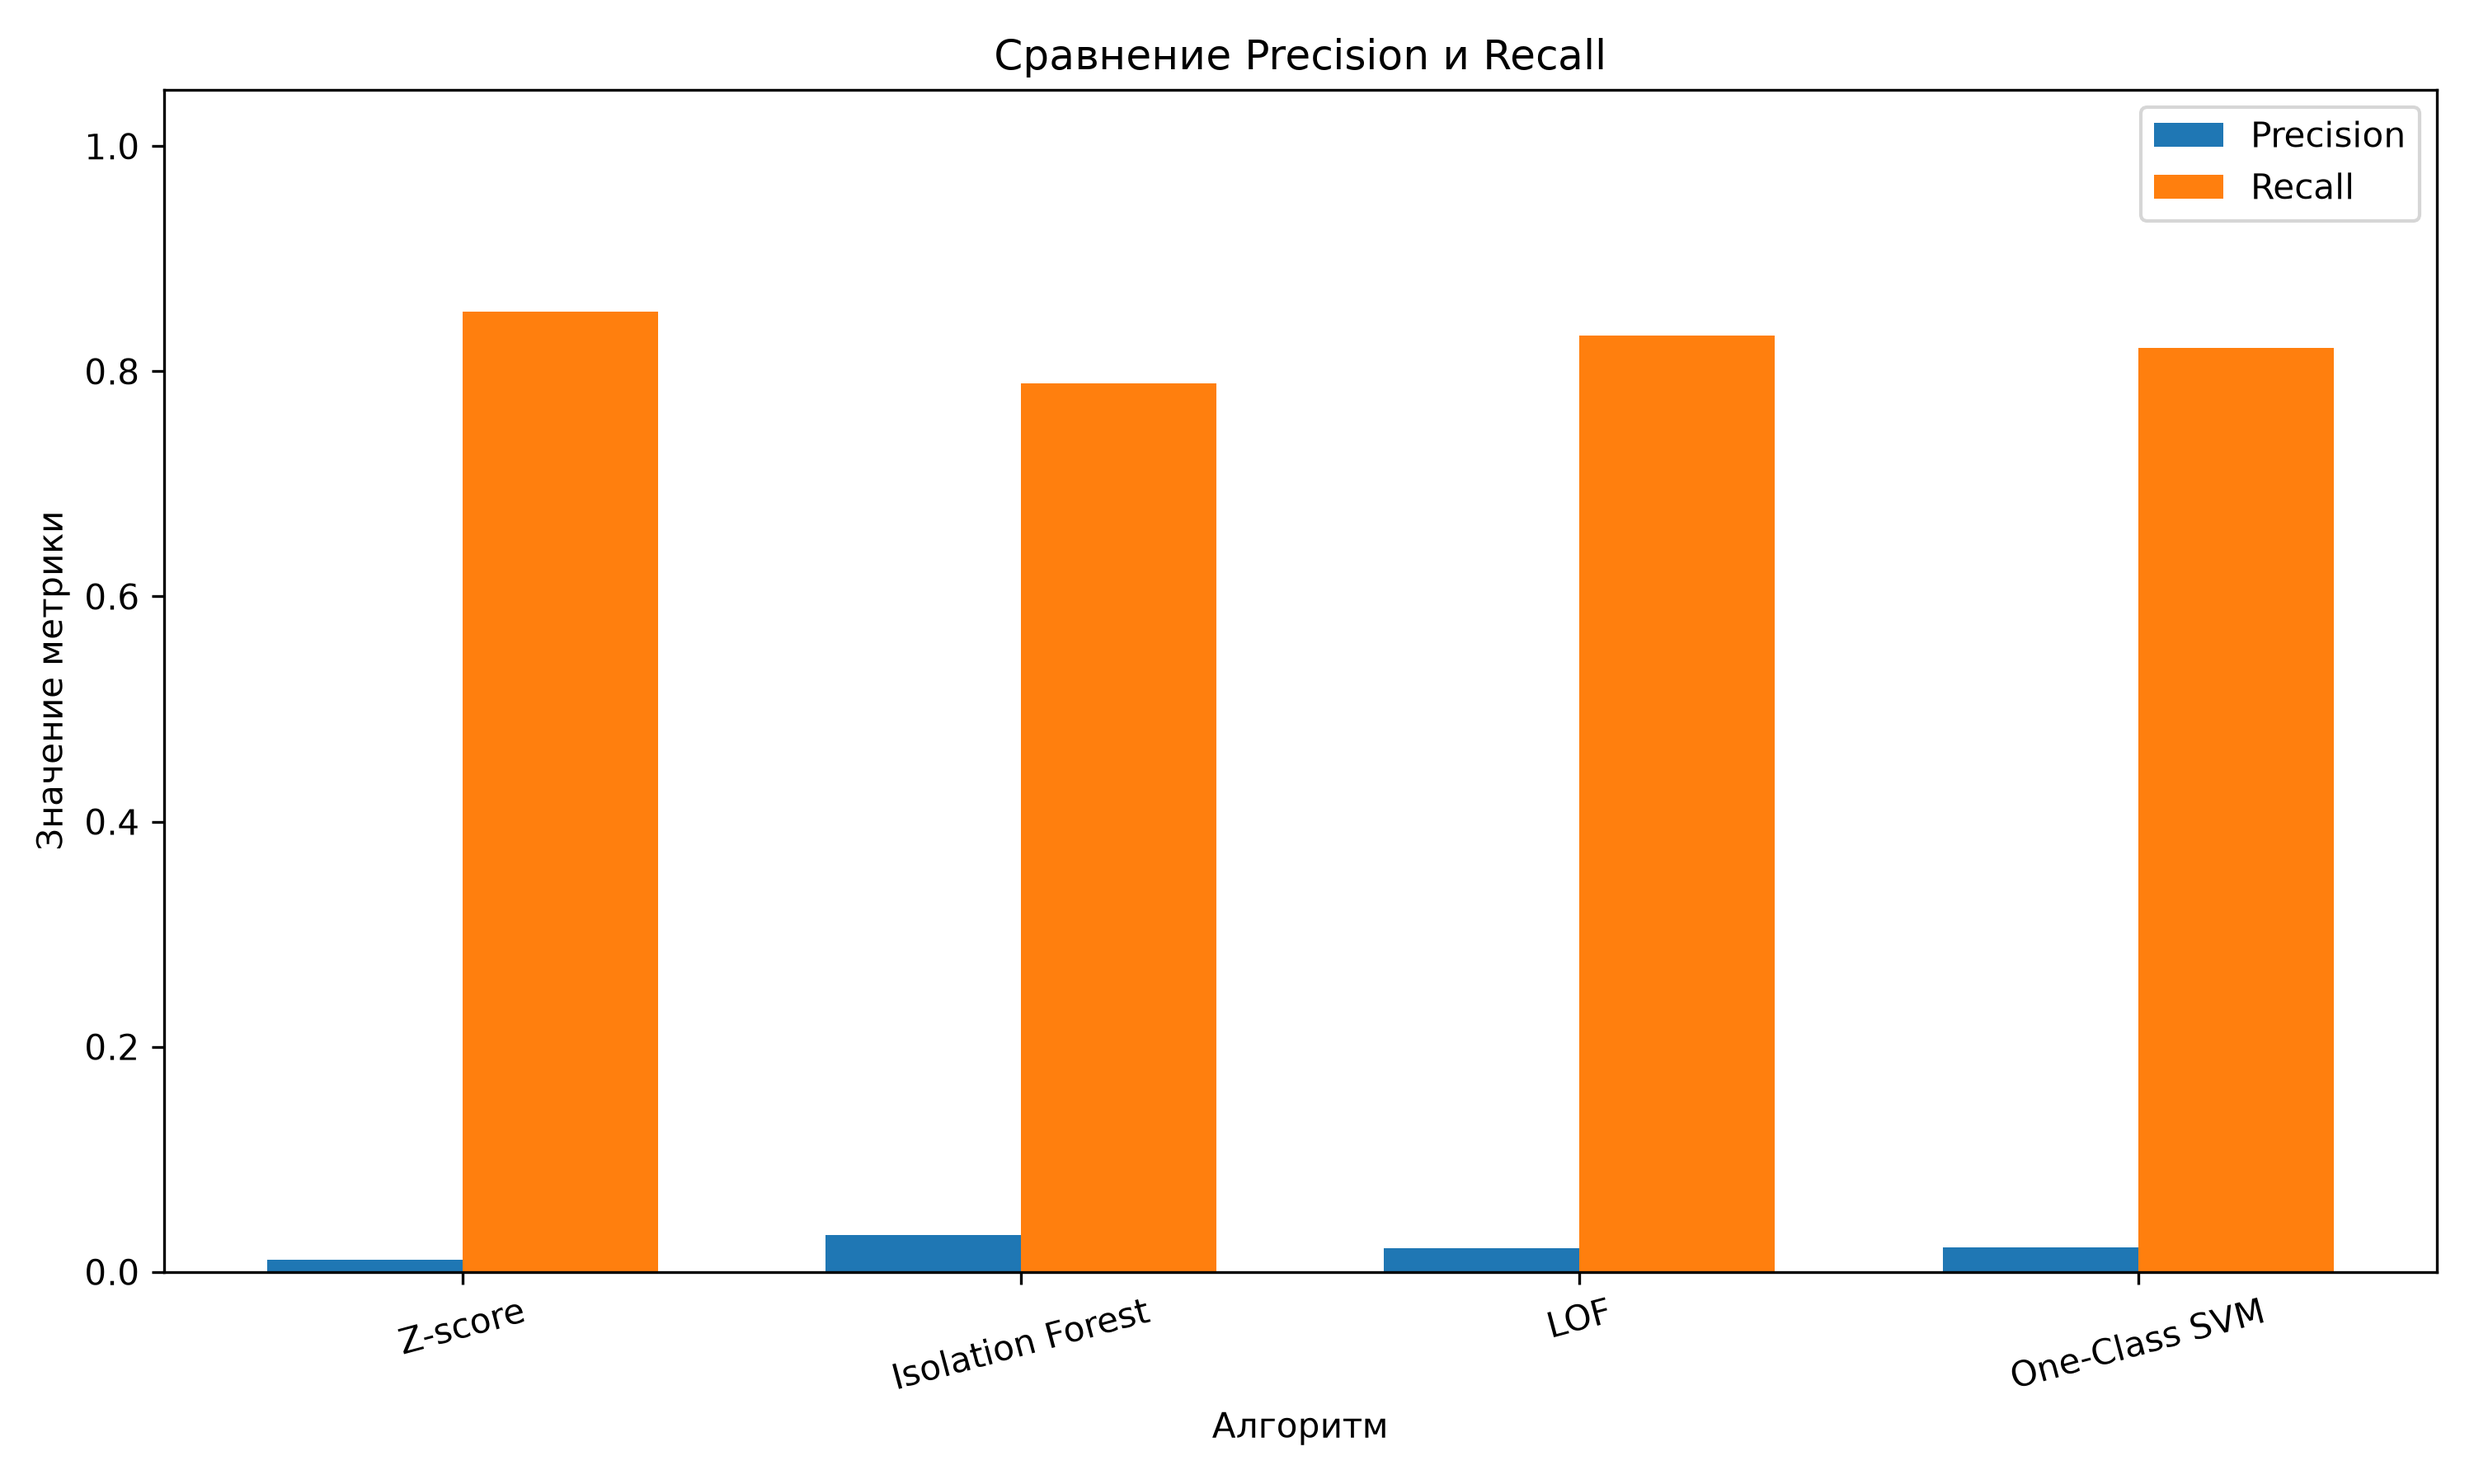
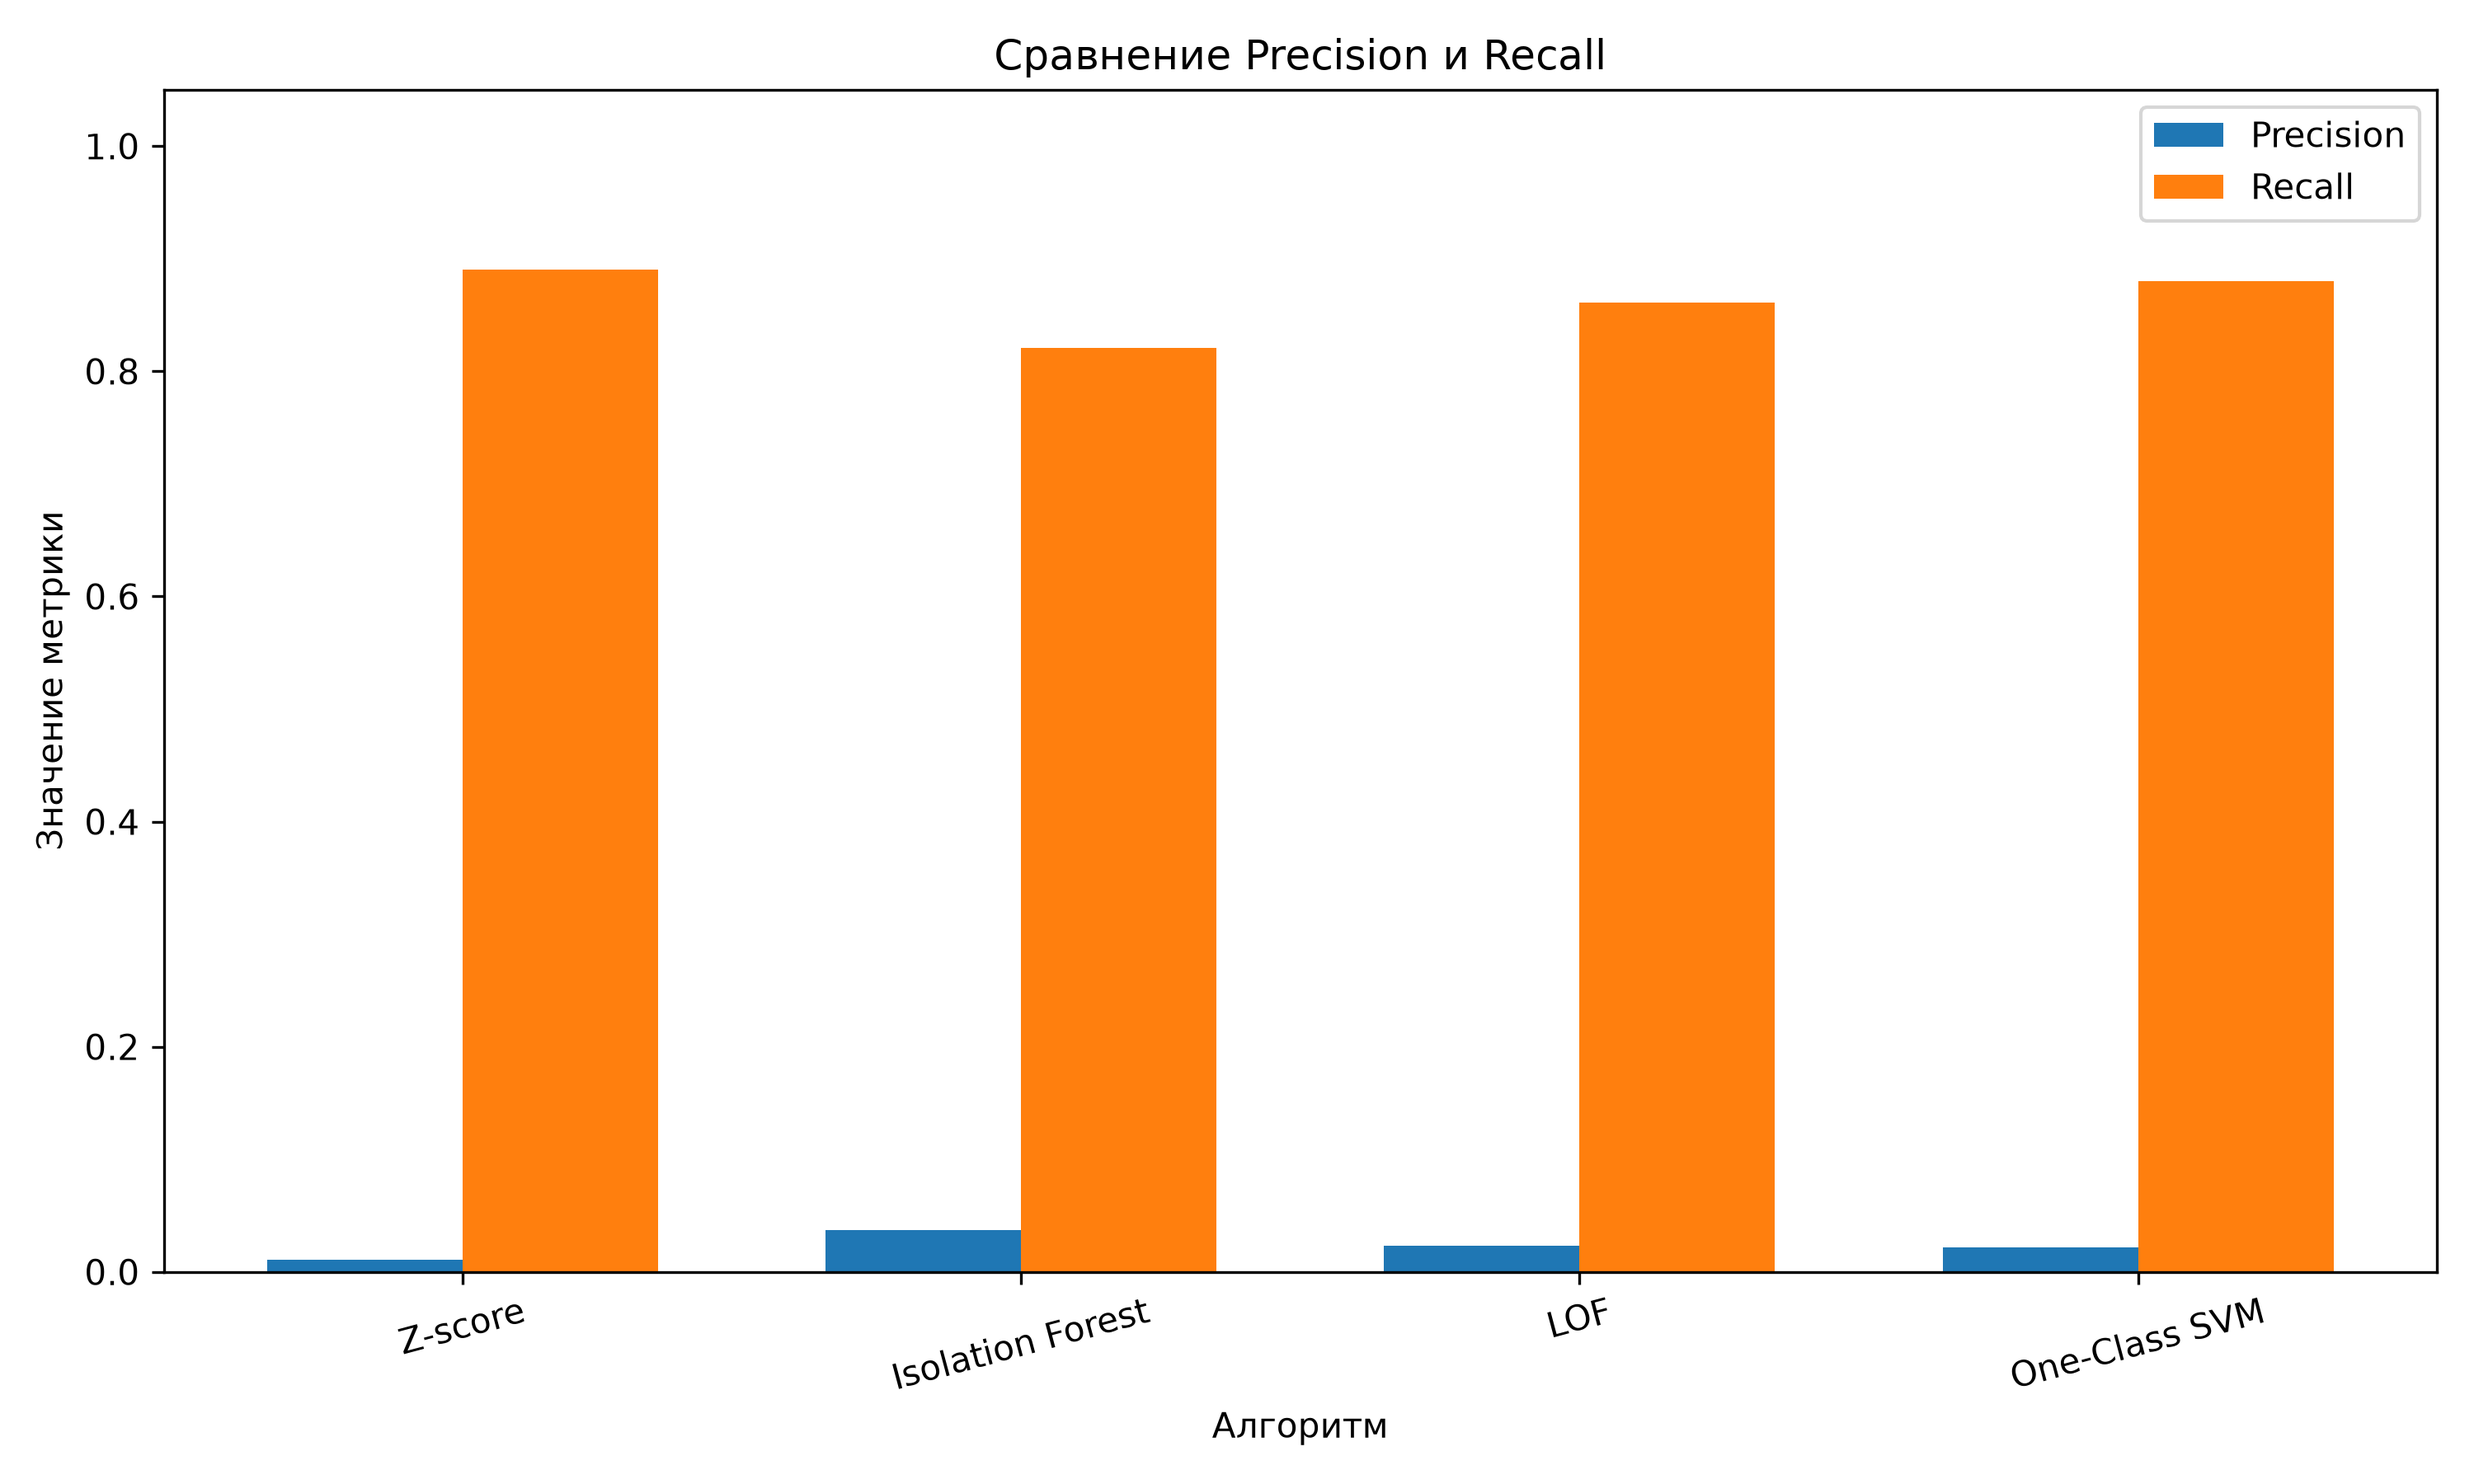
Stage 3: ROC-AUC, Precision@K, and repeated runs

diff --git a/src/evaluate.py b/src/evaluate.py
@@ -1,6 +1,6 @@
 import time
-
 from pathlib import Path
+
 import numpy as np
 import pandas as pd
 from sklearn.metrics import (
@@ -9,6 +9,7 @@ from sklearn.metrics import (
     precision_recall_curve,
     precision_score,
     recall_score,
+    roc_auc_score,
 )
 from sklearn.model_selection import train_test_split
 
@@ -17,7 +18,13 @@ from .preprocessing import clean_and_scale, get_features
 
 MAX_TEST = 100000
 MAX_CURVE_POINTS = 500
+SEEDS = [42, 43, 44, 45, 46]  # пять запусков с разным разбиением
+TOP_FRAC = 0.01               # доля транзакций для Precision@K / Recall@K
 RESULTS_DIR = Path(__file__).resolve().parent.parent / "results"
+
+MEAN_COLS = ["Precision", "Recall", "F1-score", "Avg Precision",
+             "ROC-AUC", "Precision@1%", "Recall@1%"]
+STD_COLS = ["F1-score", "Avg Precision", "ROC-AUC", "Recall@1%"]
 
 
 def get_labels(df):
@@ -53,7 +60,18 @@ def _pr_curve(y_true, score):
     return pd.DataFrame({"Recall": recall, "Precision": precision})
 
 
-def evaluate_holdout(df, method):
+def _top_k_metrics(y_true, score, frac=TOP_FRAC):
+    y = np.asarray(y_true)
+    k = max(1, int(len(y) * frac))
+    top = np.argsort(score)[::-1][:k]
+    hits = int(y[top].sum())
+    return {
+        "Precision@1%": hits / k,
+        "Recall@1%": hits / max(1, int(y.sum())),
+    }
+
+
+def evaluate_holdout(df, method, seed=42):
     y = get_labels(df)
     if y is None:
         raise ValueError("Для оценки нужен столбец Class со значениями 0 и 1 (оба класса).")
@@ -61,40 +79,53 @@ def evaluate_holdout(df, method):
     X = get_features(df)
     strat = y if y.value_counts().min() >= 2 else None
     X_tr, X_te, _, y_te = train_test_split(
-        X, y, test_size=0.2, random_state=42, stratify=strat
+        X, y, test_size=0.2, random_state=seed, stratify=strat
     )
 
     if len(X_te) > MAX_TEST:
         strat = y_te if y_te.value_counts().min() >= 2 else None
         X_te, _, y_te, _ = train_test_split(
-            X_te, y_te, train_size=MAX_TEST, random_state=42, stratify=strat
+            X_te, y_te, train_size=MAX_TEST, random_state=seed, stratify=strat
         )
 
     train, test = clean_and_scale(X_tr, X_te)
-    pred, score = fit_predict_score(method, train, test)
+    pred, score = fit_predict_score(method, train, test, seed)
 
     metrics = {
         **calc_metrics(y_te, pred),
         "Avg Precision": average_precision_score(y_te, score),
+        "ROC-AUC": roc_auc_score(y_te, score),
+        **_top_k_metrics(y_te, score),
         "Проверочных записей": len(y_te),
         "Найдено аномалий": int(pred.sum()),
     }
     return metrics, _pr_curve(y_te, score)
 
 
-def compare_methods(df):
+def compare_methods(df, seeds=SEEDS):
     y = get_labels(df)
     rows, curves = [], []
     for m in METHODS:
         start = time.perf_counter()
         if y is not None:
-            metrics, curve = evaluate_holdout(df, m)
-            row = {"Алгоритм": m, **metrics}
+            runs, curve = [], None
+            for seed in seeds:
+                metrics, c = evaluate_holdout(df, m, seed)
+                runs.append(metrics)
+                if curve is None:
+                    curve = c  # PR-кривая берётся из первого запуска
+            runs_df = pd.DataFrame(runs)
+            row = {"Алгоритм": m, **runs_df[MEAN_COLS].mean().to_dict()}
+            for c in STD_COLS:
+                row[f"{c} ±"] = runs_df[c].std()
+            row["Проверочных записей"] = int(runs_df["Проверочных записей"].iloc[0])
+            row["Найдено аномалий"] = int(round(runs_df["Найдено аномалий"].mean()))
+            row["Время (сек.)"] = round((time.perf_counter() - start) / len(seeds), 2)
             curves.append(curve.assign(Алгоритм=m))
         else:
             found = int(detect_anomalies(df, m)["Anomaly"].sum())
             row = {"Алгоритм": m, "Найдено аномалий": found}
-        row["Время (сек.)"] = round(time.perf_counter() - start, 2)
+            row["Время (сек.)"] = round(time.perf_counter() - start, 2)
         rows.append(row)
 
     table = pd.DataFrame(rows)
@@ -102,8 +133,9 @@ def compare_methods(df):
     baseline = float(y.mean()) if y is not None else None
     return table, curves_df, baseline
 
+
 def save_comparison(table):
     RESULTS_DIR.mkdir(exist_ok=True)
     path = RESULTS_DIR / "comparison.csv"
-    table.to_csv(path, index=False, encoding="utf-8-sig")
+    table.round(4).to_csv(path, index=False, encoding="utf-8-sig")
     return path

diff --git a/src/models/__init__.py b/src/models/__init__.py
@@ -8,9 +8,9 @@ MAX_TRAIN = 5000
 SVM_TRAIN = 2500
 
 MODELS = {
-    "Isolation Forest": lambda: IsolationForest(random_state=42),
-    "LOF": lambda: LocalOutlierFactor(n_neighbors=20, novelty=True, n_jobs=-1),
-    "One-Class SVM": lambda: OneClassSVM(kernel="rbf", gamma="scale", nu=0.05),
+    "Isolation Forest": lambda seed: IsolationForest(random_state=seed),
+    "LOF": lambda seed: LocalOutlierFactor(n_neighbors=20, novelty=True, n_jobs=-1),
+    "One-Class SVM": lambda seed: OneClassSVM(kernel="rbf", gamma="scale", nu=0.05),
 }
 METHODS = ["Z-score", *MODELS]
 
@@ -28,7 +28,7 @@ def _parallel(func, X, chunk=20000):
     return np.concatenate(results)
 
 
-def fit_predict_score(method, train, test):
+def fit_predict_score(method, train, test, seed=42):
     if method == "Z-score":
         score = np.abs(test).max(axis=1)
         return (score > 3).astype(int), score
@@ -36,14 +36,14 @@ def fit_predict_score(method, train, test):
     if method not in MODELS:
         raise ValueError("Неизвестный алгоритм.")
 
-    model = MODELS[method]()
+    model = MODELS[method](seed)
 
     if method == "Isolation Forest":
         model.fit(train)
     elif method == "One-Class SVM":
-        model.fit(_subsample(train, SVM_TRAIN))
+        model.fit(_subsample(train, SVM_TRAIN, seed))
     else:
-        model.fit(_subsample(train))
+        model.fit(_subsample(train, MAX_TRAIN, seed))
 
     if method == "One-Class SVM":
         dec = _parallel(model.decision_function, test)

diff --git a/scripts/visualize_results.py b/scripts/visualize_results.py
@@ -19,7 +19,7 @@ if not all(c in df.columns for c in needed):
 
 # График 1. F1-score
 plt.figure(figsize=(10, 6))
-plt.bar(df["Алгоритм"], df["F1-score"])
+plt.bar(df["Алгоритм"], df["F1-score"], yerr=df.get("F1-score ±"), capsize=5)
 plt.title("Сравнение алгоритмов по F1-score")
 plt.xlabel("Алгоритм")
 plt.ylabel("F1-score")
@@ -55,4 +55,15 @@ plt.ylabel("Секунды")
 plt.xticks(rotation=15)
 plt.tight_layout()
 plt.savefig(RESULTS_DIR / "time_comparison.png", dpi=300)
+plt.show()
+
+# График 4. Average Precision (не зависит от порога)
+plt.figure(figsize=(10, 6))
+plt.bar(df["Алгоритм"], df["Avg Precision"], yerr=df.get("Avg Precision ±"), capsize=5)
+plt.title("Сравнение алгоритмов по Average Precision")
+plt.xlabel("Алгоритм")
+plt.ylabel("Average Precision")
+plt.xticks(rotation=15)
+plt.tight_layout()
+plt.savefig(RESULTS_DIR / "avg_precision_comparison.png", dpi=300)
 plt.show()

diff --git a/app.py b/app.py
@@ -87,9 +87,15 @@ def show_comparison(comp):
     st.subheader("Сравнение алгоритмов")
     st.dataframe(table, width="stretch")
 
+    if "F1-score ±" in table.columns:
+        st.caption("Метрики усреднены по 5 запускам с разным разбиением данных, "
+                   "столбцы со знаком ± показывают стандартное отклонение. "
+                   "Precision@1% и Recall@1%: качество среди 1% транзакций "
+                   "с самым высоким score.")
+
     st.download_button(
         "Скачать таблицу сравнения (CSV)",
-        table.to_csv(index=False, sep=";", decimal=",").encode("utf-8-sig"),
+        table.round(4).to_csv(index=False, sep=";", decimal=",").encode("utf-8-sig"),
         file_name="comparison.csv",
         mime="text/csv",
         on_click="ignore",
